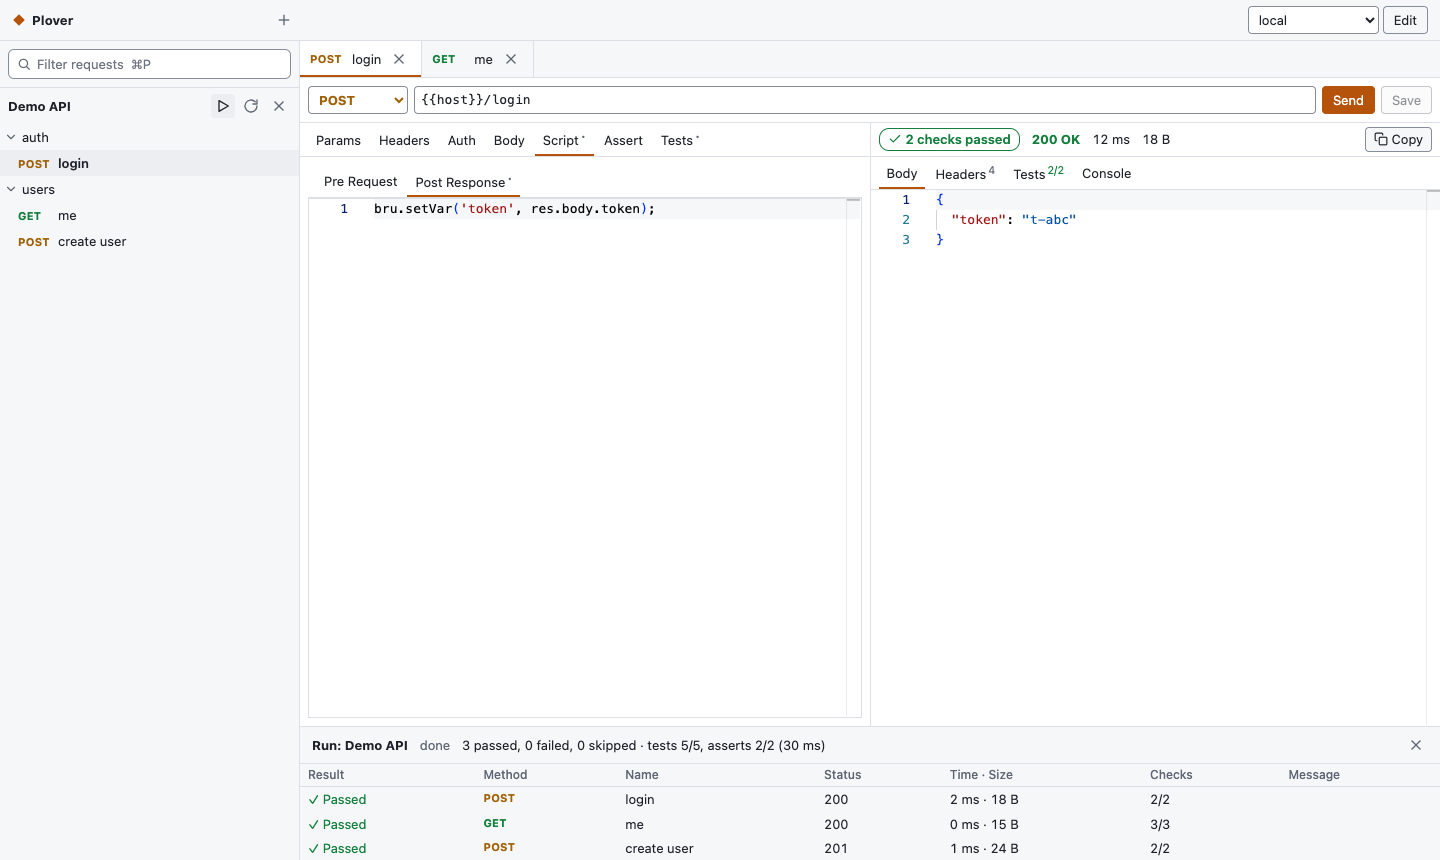
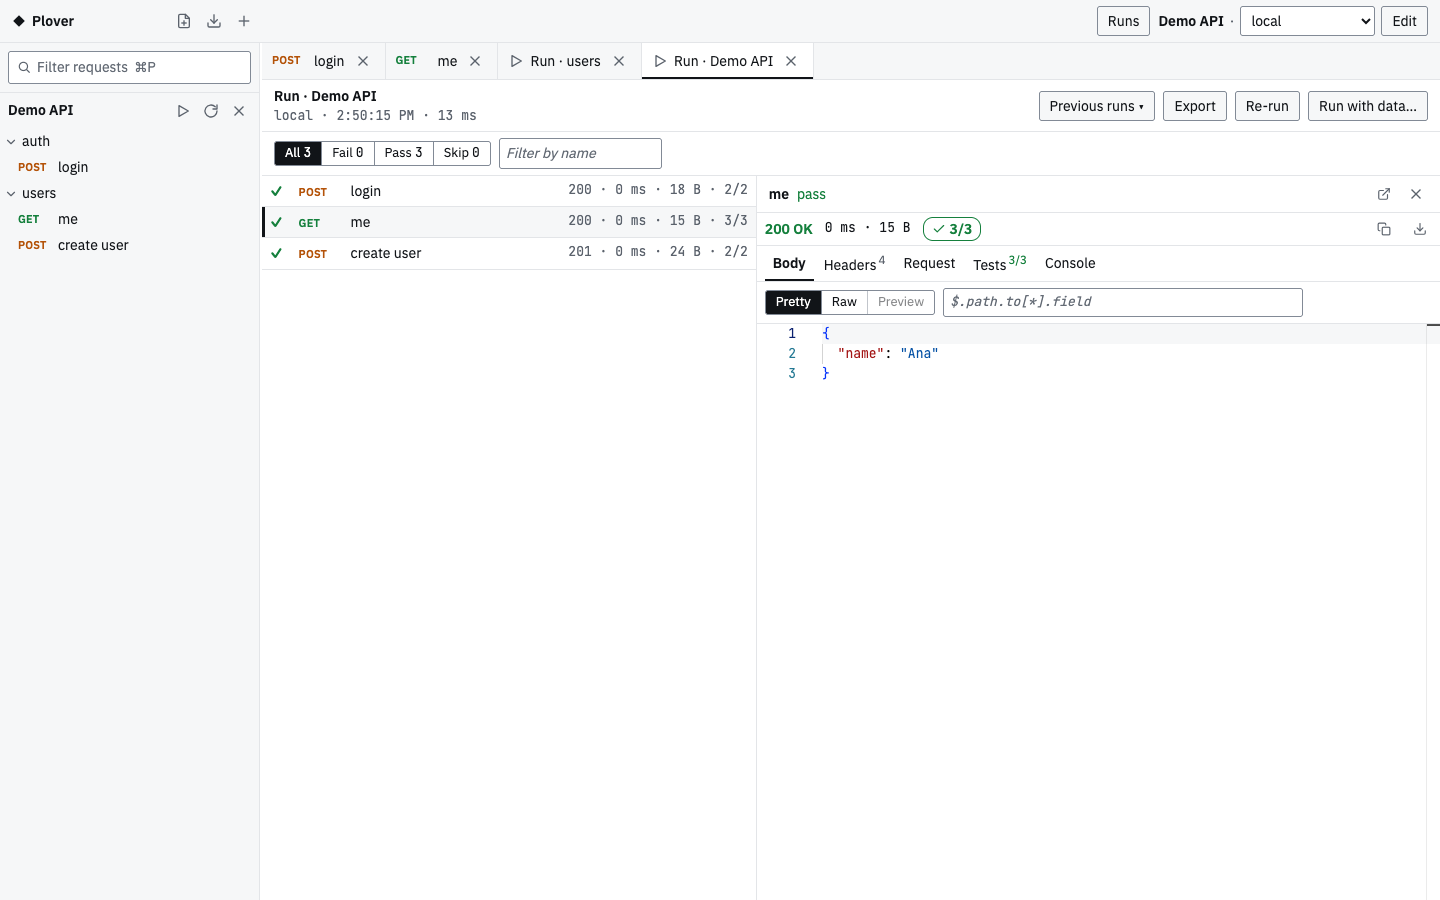
docs: screenshots and notes for the new look
README screenshots re-captured from the Demo API copy of the phase3-chain
fixture (request, script, tests, run tab, value menu, failed run), README
text for the URL bar menu, response tools, Run tab and shortcuts, and
docs/ui-style-report.md. The data-driven Export menu and Run with data…
already sit in the Run tab header (Task 9); a test now checks them.

Claude-Session: https://claude.ai/code/session_01FnGwUwogsr835cxeJbvuWL

diff --git a/frontend/src/components/run/run-tab.test.tsx b/frontend/src/components/run/run-tab.test.tsx
@@ -162,6 +162,15 @@ describe("run tab", () => {
     expect(useTabs.getState().runTabs[0]!.runId).toBe("new-1");
   });
 
+  it("run_tab_has_export_and_run_with_data", () => {
+    render(runTabFor());
+    const header = screen.getByRole("region", { name: "Run all" }).querySelector("header")!;
+    const names = within(header).getAllByRole("button").map((b) => b.textContent);
+    expect(names).toEqual(["Previous runs ▾", "Export", "Re-run", "Run with data…"]);
+    fireEvent.click(within(header).getByRole("button", { name: "Run with data…" }));
+    expect(screen.getByRole("dialog", { name: "Run with data" })).toBeTruthy();
+  });
+
   it("run_tabs_not_persisted and shown in the tab strip", () => {
     useTabs.getState().openRun("c1", "r1", "all");
     render(<RequestTabs />);

diff --git a/docs/ui-style-report.md b/docs/ui-style-report.md
@@ -1,0 +1,62 @@
+# UI style and layout: report (2026-10-24)
+
+**Tóm tắt**
+1. Giao diện mới theo kiểu Swiss Minimal: nền trắng (có dark mode tương ứng), viền 1 px, không đổ bóng. **Send là nút có màu duy nhất** (emerald-700 `#047857` chữ trắng; dark: `#10b981` chữ tối). Font IBM Plex Sans và JetBrains Mono được đóng gói sẵn (giấy phép OFL), không tải từ CDN.
+2. Thanh trên cùng ghi `Demo API · local`: luôn cho biết environment thuộc collection nào. Sidebar kéo được độ rộng (180 px đến nửa cửa sổ) và nhớ độ rộng sau khi khởi động lại.
+3. Thanh URL: method · URL · **Send** · `⋯` (Copy as cURL, Copy resolved URL với secret thành `***`, Save, Reveal .bru / Copy file path). Tab chưa lưu có dấu chấm.
+4. Response: dòng trạng thái gọn kèm nút icon copy/lưu file, header quan trọng (`x-request-id`, `traceparent`, `location`) được ghim, Pretty/Raw/Preview, lọc JSONPath, `⌘F`, bấm vào giá trị JSON để copy giá trị, copy path hoặc lưu thành runtime variable. Body trên 1 MiB chỉ hiển thị một phần, nhưng Copy/Save vẫn lấy toàn bộ.
+5. Runner thành **tab riêng** với bộ lọc All/Fail/Pass/Skip kiểu Bruno, chi tiết kết quả bên phải (lý do lỗi nằm đầu tiên), Previous runs, Export, Re-run, Run with data…. Panel chạy ở dưới đáy đã bỏ.
+
+## What was built
+
+| Task | Commit | Result |
+|---|---|---|
+| 0 | `acc6f19` | Interfaces checked on `e46f2bd`; differences written at the top of the plan |
+| 1 | `97160b9` | Semantic colour tokens for light and dark, bundled woff2 fonts, WCAG contrast test, CDN check rejects Google Fonts |
+| 2 | `b6ae47b` | `<collection> · <env ▾>` in the top bar |
+| 3 | `e9353ab` | Resizable sidebar; `GET/PUT /api/layout` stored in `state.json` |
+| 4 | `f938430` | Send + `⋯` request menu; `POST /collections/{id}/resolved-url`; `POST /native/reveal`; `capabilities.reveal` |
+| 5 | `712c26e` | Status line, icon copy/save, pinned headers, Headers tab copy (row and all) |
+| 6 | `7d3392f` | Pretty/Raw/Preview, JSONPath subset (no dependency), `⌘/Ctrl+F` find |
+| 7 | `91cebcc` | Value menu (Copy value / Copy path / Save as runtime variable); `PUT /collections/{id}/runtime-vars/{name}` |
+| 8 | `2924467` | 1 MiB render cap with Show all; large arrays start folded |
+| 9 | `272e300` | Run tab with status filter, name filter, folder line only on duplicate names; `RunPanel` deleted |
+| 10 | `docs:` commit after `272e300` | Export / Run with data in the Run tab header (test), README, screenshots, this report |
+
+Measured contrast (WCAG 2, from the tokens; `frontend/src/theme.test.ts` checks every pair):
+
+| Pair | Light | Dark |
+|---|---|---|
+| `--fg` on `--bg` | 18.47 | 14.48 |
+| `--muted` on `--bg-2` | 5.74 | 6.43 |
+| `--placeholder` on `--bg-2` | 5.02 | 5.49 |
+| Lowest method/status colour on `--bg-2` | 4.68 (GET, POST, 2xx, 4xx) | 5.91 (DELETE, 5xx) |
+| `--color-on-send` on `--color-send` / hover | 5.48 / 7.68 | 7.01 / 9.25 |
+| `--border-strong` on `--bg` / `--bg-2` | 3.49 / 3.25 | 4.16 / 3.82 |
+
+Accessibility checks: every new icon-only button has `aria-label` and `title`; copy feedback goes to an `aria-live="polite"` region; the menus, the Pretty/Raw/Preview switch, the run filter and the sidebar handle work from the keyboard (arrow keys, Home/End, Esc returns focus); result marks are ✓ / ✕ / ⊘ with screen-reader text; icons come from `components/icons.tsx` (three added: More, Download, External); the existing `prefers-reduced-motion` rule covers the new parts (no new animation).
+
+## Deviations from the plan
+
+1. **Run tabs are a separate list.** `useTabs.runTabs: RunTab[]` shares `active` with request tabs instead of turning `Tab` into a union, so the request-tab code did not change. Run tabs are not in the UI-state snapshot, so they are never remembered.
+2. **No slot props.** The data-driven work had landed, so `ExportMenu` and `RunWithDataDialog` are mounted directly in the Run tab header. `RunHistoryMenu` gained `onChoose`, and `RunWithDataDialog` gained `onStarted`, so the tab retargets itself.
+3. **Reveal in web mode answers 501 `not_supported`**, like the other native routes, not 404 `not_desktop`. A missing file is 404; a path outside the collection is 400 `bad_item`.
+4. **The Body tab is always "Body"**; run details used to call it "Response". The checks summary is an `n/m` chip with ✓ or ✕.
+5. **The Monaco theme repeats `--bg` / `--bg-2` as hex** in `editor/monaco.ts`, because Monaco cannot read CSS variables.
+6. **Gate.** The full gate ran before every commit. For Task 9, the full gate passed and then a small markup and CSS fix in `RunList` (method badge cell) was checked with the frontend gate plus the embedded-assets test before the commit; no Rust file changed in between.
+
+## Known gaps
+
+1. Preview of images and PDFs, folding, and the 1 MiB cap were checked in jsdom tests only. The fixture has no HTML, image or large responses.
+2. Reveal .bru file was checked against a fake host, not in the Tauri app. Clipboard text in the browser was checked through the "Copied" note only (headless Chrome refuses clipboard reads).
+3. The Run tab shows the time the tab opened, not the server's start time, for a live run.
+4. There is no list of runtime variables yet, so a saved variable only shows up as a short "Saved {{name}}" note (a later plan covers the variables view).
+5. The keyboard focus ring was checked in tests and CSS, but not screenshotted.
+
+## Screenshots
+
+README (committed, "Demo API" copy of `fixtures/phase3-chain` against the local mock):
+`docs/screenshots/request-dark.png`, `script-dark.png`, `tests-dark.png`, `run-light.png`, `value-menu-light.png`, `run-fail-dark.png`.
+
+Verification set, light and dark, release `plv serve` with a temporary `PLOVER_STATE_DIR` and test keychain service (not committed):
+`/private/tmp/claude-501/-Users-tienle-projects-rea/1bb5dcfd-43a5-447b-a541-d24ed1b9cd89/scratchpad/ui-style-shots/` holds `request-{light,dark}`, `value-menu-{light,dark}`, `find-{light,dark}`, `jsonpath-light`, `jsonpath-error-dark`, `request-menu-light`, `run-{light,dark}`, `run-fail-{light,dark}`, `previous-runs-{light,dark}`, `script-dark` and `tests-dark` (all `.png`). The browser reported no page errors during the walkthrough.

diff --git a/README.md b/README.md
@@ -18,7 +18,11 @@ limits, and no data leaves your machine except the requests you send.
 |---|---|
 | ![Script tab with bru.setVar](docs/screenshots/script-dark.png) | ![Tests tab, 3 of 3 passed](docs/screenshots/tests-dark.png) |
 
-![Collection run panel in light mode](docs/screenshots/run-light.png)
+| Value menu on a JSON response | A run tab filtered to failures |
+|---|---|
+| ![Copy value, Copy path or save as a runtime variable](docs/screenshots/value-menu-light.png) | ![Run tab with the Fail filter and the failure reason on top](docs/screenshots/run-fail-dark.png) |
+
+![Collection run in a tab, light mode](docs/screenshots/run-light.png)
 
 ## Usage
 
@@ -75,8 +79,10 @@ plv runs clear coll --yes                           # delete this collection's r
 plv run coll --no-history                           # do not save this run
 ```
 
-In the app, click a row in the run panel to see its Response, Headers, Request, Tests
-and Console; **History** in the run panel lists saved runs (app and `plv`) and opens one.
+In the app, ▶ on a collection or folder opens the run in a **Run tab**. **All | Fail |
+Pass | Skip** filters the results (with a name filter beside it); click a row to see its
+Body, Headers, Request, Tests and Console, with the failure reason first. **Previous
+runs ▾** lists saved runs (app and `plv`) and shows one in the same tab.
 
 - Where: `runs/` next to `state.json` (below), never inside the collection, one folder
   per collection. The 20 newest runs per collection are kept.
@@ -129,9 +135,9 @@ plv run coll --env local --iteration-count 5           # five times, no file
   iteration (like Bruno); the HTML report has an "Iteration N of M" section with the
   row; JUnit stays one flat list with Bruno's suite names.
 
-In the app, **Run with data…** in the run panel takes a CSV/JSON file (shown as its row
+In the app, **Run with data…** in the Run tab header takes a CSV/JSON file (shown as its row
 count and column names only, never kept) or an iteration count; results are grouped by
-iteration. **Export** in the run panel saves a finished, cancelled or saved run as
+iteration. **Export** in the Run tab header saves a finished, cancelled or saved run as
 HTML, JSON or JUnit, byte for byte what `plv runs show <id> --reporter-*` writes (the
 desktop app uses a save dialog).
 
@@ -167,14 +173,25 @@ never secrets. `plv run` reads and writes only its `runs/` folder.
 - **New request** (above the sidebar) opens an unsaved tab that sends with the
   collection's headers, auth and scripts. It is never written to disk until you save it
   into a folder, and is not remembered across restarts.
-- **Copy as cURL** (next to Save) copies a request as written, or with variables filled
-  in for the selected environment (it asks first when the command contains a secret).
+- **Send** is the only coloured button. **⋯** next to it holds Copy as cURL (as written,
+  or with variables filled in for the selected environment; it asks first when the
+  command contains a secret), Copy resolved URL (secret values as `***`), Save and
+  Reveal .bru file (desktop) / Copy file path (browser). A dot on a tab means unsaved.
+- **Response:** Pretty / Raw / Preview (HTML in a sandboxed frame, images, PDF), a
+  JSONPath filter (`$.items[*].id`, `..id`; Copy body then copies the result), `⌘/Ctrl+F`
+  to search, and a click (or Enter) on a JSON value to copy it, copy its path, or keep
+  it as a runtime variable. `x-request-id`, `traceparent` and `location` are pinned
+  under the body with a copy button. Bodies over 1 MiB render in part (Show all);
+  Copy and Save always use the whole body.
+- **Sidebar width:** drag its edge (or focus it and use the arrow keys); double-click
+  resets it. The width is remembered.
 - **Import HAR** (above the sidebar) turns a recorded browser session into requests and
   moves every credential into secret variables. See
   [Capture a browser flow and import it](docs/capture-with-claude.md).
 
 Shortcuts: `⌘/Ctrl+O` open collection, `⌘/Ctrl+P` filter requests (`Esc` clears),
-`⌘/Ctrl+Enter` send, `⌘/Ctrl+S` save, arrow keys in the sidebar tree and tab strips,
+`⌘/Ctrl+Enter` send, `⌘/Ctrl+S` save, `⌘/Ctrl+F` search the response body, Enter on a
+JSON value for its menu, arrow keys in the sidebar tree and tab strips,
 `Esc` closes dialogs. `⌘/Ctrl+W` closes a request tab in the desktop app (browsers
 keep that shortcut for closing the window).
 

diff --git a/docs/ui-ux-review.md b/docs/ui-ux-review.md
@@ -7,6 +7,8 @@
 4. **Sửa nhanh (mỗi việc dưới 30 phút):** thêm ⌘↵ để gửi và ⌘W để đóng tab, sắp xếp collection theo thứ tự cố định, vùng bấm của nút icon tối thiểu 24 px, thêm header "Name / Value" cho bảng.
 5. **Để ngang Bruno/Postman:** cần thêm ô tìm request, nút copy hoặc format response, kéo để đổi kích thước pane, nhớ tab sau khi reload, và lịch sử request.
 
+> **Update 2026-10-24:** the token proposals in section D were superseded by the Swiss Minimal tokens in `frontend/src/styles.css` (checked by `frontend/src/theme.test.ts`); see `docs/ui-style-report.md`.
+
 Scope: the React frontend served by `plv serve` and by the Tauri window. It was reviewed as a desktop developer tool used with mouse and keyboard, so mobile-only rules were skipped. The method was a source read plus a live walkthrough: release `plv` (`target/release/plv`), the `fixtures/phase3-chain` and `uicheck` collections copied to scratch, localhost mocks, and agent-browser at 1440×900 and 960×700 in light and dark. Contrast ratios were computed from the CSS tokens with the WCAG 2.x formula.
 
 Screenshots are in `/private/tmp/claude-501/-Users-tienle-projects-rea/1bb5dcfd-43a5-447b-a541-d24ed1b9cd89/scratchpad/uiux/shots/` (referred to below as `shots/`).
